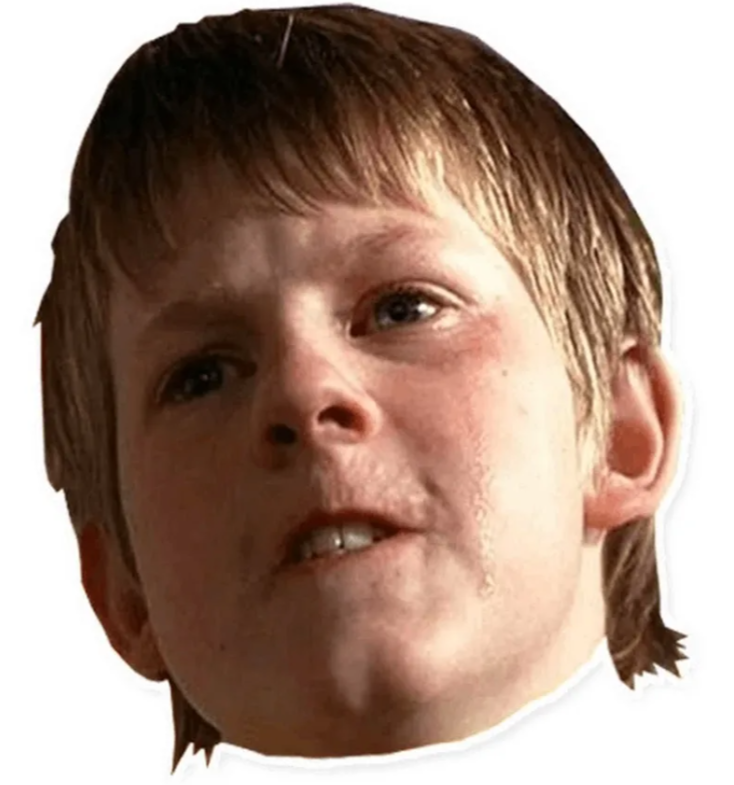
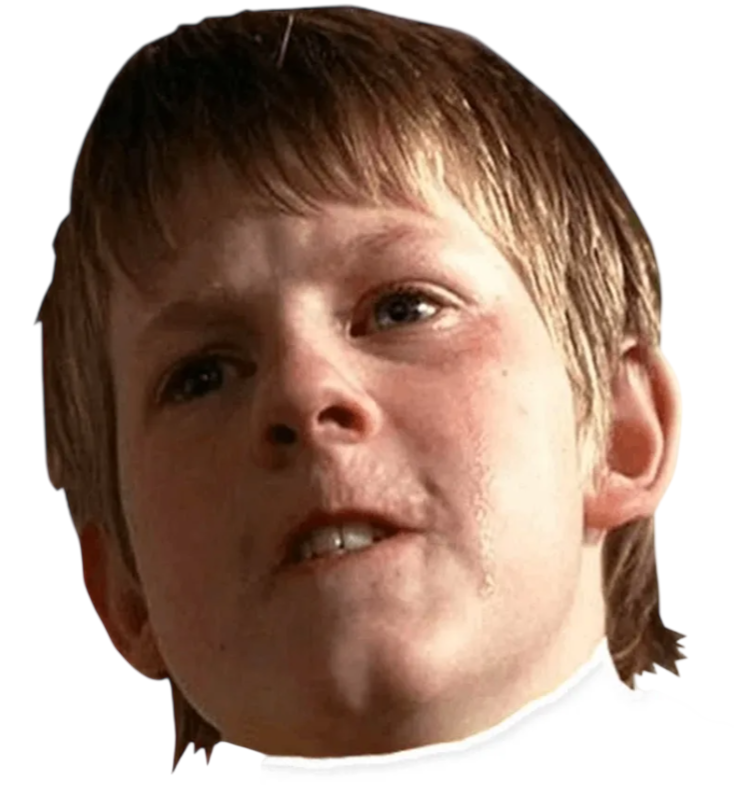
Multiple HTML and CSS adjustments

diff --git a/CSS/Feedback.css b/CSS/Feedback.css
@@ -33,7 +33,7 @@ html {
   animation: fadeIn 0.8s ease-out forwards; /* 0.8 секунды, мягкое замедление */
 }
 
-/* Стилизация ползунка, чтобы он тоже был скруглённым и аккуратным */
+/* Стилизация ползунка, чтобы он был скруглённым */
 .scrollable-box::-webkit-scrollbar {
   width: 8px;
 }
@@ -77,8 +77,6 @@ html {
 }
 
 .container_feedback h1,
-.container_feedback h2,
-.container_feedback h3,
 .container_feedback .form-title {
   text-align: center;
 }
@@ -96,7 +94,6 @@ input[type="date"] {
   border-radius: 5px;
   box-sizing: border-box;
 }
-
 
 input[type="submit"] {
   width: 10vw;

diff --git a/CSS/Register.css b/CSS/Register.css
@@ -18,7 +18,7 @@ html {
 
 .container_register {
   width: 22vw;
-  height: 67vh;
+  height: 69vh;
   margin-bottom: 6vh;
   background-color: rgba(255, 255, 255, 0.85);
   backdrop-filter: blur(10px);
@@ -102,8 +102,15 @@ input[type="submit"] {
   text-align: center;
 }
 
+
 input[type="submit"]:hover {
   background-color: rgb(255, 136, 0);
+}
+
+.container_register nav ul li a {
+  color: #333;
+  text-shadow: none !important;
+  box-shadow: none !important;
 }
 
 /* Описываем саму анимацию */

diff --git a/HTML/Clicker.php b/HTML/Clicker.php
@@ -89,60 +89,69 @@
 
 
     <div class="body">
-        <div class="container">
-            <form action="" method="POST" class="game" onsubmit="updateHiddenField()">
-                <!-- Заголовок со счетом. Внутри span с id="score", который будет менять JavaScript -->
-                <h1>Счет: <span id="score">0</span></h1>
-                <!-- Кнопка клика -->
-                <div class="button" id="button"></div>
-                <!-- Счетчик прибавки при ручном нажатии -->
-                <h1>Один клик: <span id="score1">1</span></h1>
-                <!-- Счетчик авто-прибавки  -->
-                <h1>Авто-клик: <span id="score2">1</span></h1>
-                <h1><span id="attention"></span></h1>
-                <!-- Невидимое поле - Сюда записывается счет -->
-                <input type="hidden" name="score" id="hidden_score" value="0">               
-                <!-- Кнопка записи данных в таблицу базы данных -->
-                <input type="submit" name="button_score" value="Сохранить результат">
-            </form>
+        <?php if (isset($_SESSION['login'])): ?>
+            <!-- Этот блок виден ТОЛЬКО авторизованным пользователям -->
+            <div class="container">
+                <form action="" method="POST" class="game" onsubmit="updateHiddenField()">
+                    <!-- Заголовок со счетом. Внутри span с id="score", который будет менять JavaScript -->
+                    <h1>Счет: <span id="score">0</span></h1>
+                    <!-- Кнопка клика -->
+                    <div class="button" id="button"></div>
+                    <!-- Счетчик прибавки при ручном нажатии -->
+                    <h1>Один клик: <span id="score1">1</span></h1>
+                    <!-- Счетчик авто-прибавки  -->
+                    <h1>Авто-клик: <span id="score2">1</span></h1>
+                    <h1><span id="attention"></span></h1>
+                    <!-- Невидимое поле - Сюда записывается счет -->
+                    <input type="hidden" name="score" id="hidden_score" value="0">
+                    <!-- Кнопка записи данных в таблицу базы данных -->
+                    <input type="submit" name="button_score" value="Сохранить результат">
+                </form>
 
 
-            <!-- Кнопки улучшений (первая группа)-->
-            <div class="buttons">
-                <h1>Прибавка +1 (Цена 20)</h1>
-                <div class="button1" id="button1"></div>
-                <h1>Прибавка +2 (Цена 40)</h1>
-                <div class="button2" id="button2"></div>
-                <h1>Прибавка +4 (Цена 80)</h1>
-                <div class="button3" id="button3"></div>
-                <h1>Прибавка +8 (Цена 160)</h1>
-                <div class="button4" id="button4"></div>
+                <!-- Кнопки улучшений (первая группа)-->
+                <div class="buttons">
+                    <h1>Прибавка +1 (Цена 20)</h1>
+                    <div class="button1" id="button1"></div>
+                    <h1>Прибавка +2 (Цена 40)</h1>
+                    <div class="button2" id="button2"></div>
+                    <h1>Прибавка +4 (Цена 80)</h1>
+                    <div class="button3" id="button3"></div>
+                    <h1>Прибавка +8 (Цена 160)</h1>
+                    <div class="button4" id="button4"></div>
+                </div>
+
+                <!-- Кнопки улучшений (вторая группа)-->
+                <div class="buttons1">
+                    <h1>Прибавка +16 (Цена 320)</h1>
+                    <div class="button5" id="button5"></div>
+                    <h1>Прибавка +32 (Цена 640)</h1>
+                    <div class="button6" id="button6"></div>
+                    <h1>Прибавка +64 (Цена 1280)</h1>
+                    <div class="button7" id="button7"></div>
+                    <h1>Прибавка +128 (Цена 2560)</h1>
+                    <div class="button8" id="button8"></div>
+                </div>
+
+                <!-- Кнопки улучшений (авто клики)-->
+                <div class="buttons2">
+                    <h1>Авто-прибавка +1 (Цена 200)</h1>
+                    <div class="button9" id="button9"></div>
+                    <h1>Авто-прибавка +2 (Цена 400)</h1>
+                    <div class="button10" id="button10"></div>
+                    <h1>Авто-прибавка +4 (Цена 800)</h1>
+                    <div class="button11" id="button11"></div>
+                    <h1>Авто-прибавка +8 (Цена 1600)</h1>
+                    <div class="button12" id="button12"></div>
+                </div>
             </div>
-
-            <!-- Кнопки улучшений (вторая группа)-->
-            <div class="buttons1">
-                <h1>Прибавка +16 (Цена 320)</h1>
-                <div class="button5" id="button5"></div>
-                <h1>Прибавка +32 (Цена 640)</h1>
-                <div class="button6" id="button6"></div>
-                <h1>Прибавка +64 (Цена 1280)</h1>
-                <div class="button7" id="button7"></div>
-                <h1>Прибавка +128 (Цена 2560)</h1>
-                <div class="button8" id="button8"></div>
+        <?php else: ?>
+            <div class="container" style="display: flex; justify-content: center; align-items: center; color: #333; padding: 20px;">
+                <p>Чтобы поиграть в кликер —
+                    <a href="Auth.php" style="color: #007bff; text-decoration: underline;">авторизуйтесь</a>.
+                </p>
             </div>
-
-            <!-- Кнопки улучшений (авто клики)-->
-            <div class="buttons2">
-                <h1>Авто-прибавка +1 (Цена 200)</h1>
-                <div class="button9" id="button9"></div>
-                <h1>Авто-прибавка +2 (Цена 400)</h1>
-                <div class="button10" id="button10"></div>
-                <h1>Авто-прибавка +4 (Цена 800)</h1>
-                <div class="button11" id="button11"></div>
-                <h1>Авто-прибавка +8 (Цена 1600)</h1>
-                <div class="button12" id="button12"></div>
-            </div>
-        </div>
+        <?php endif; ?>
 
         <div class="scrollable-box">
             <?php score_publish(); ?>

diff --git a/HTML/Register.php b/HTML/Register.php
@@ -59,20 +59,25 @@
         <div class="container_register">
             <h1 class="auth-title" style="color: grey">Регистрация</h1>
             <form method="POST" action="" enctype="multipart/form-data">
-                Логин: <input type="text" name="login" minlength="8" placeholder="Минимум 8 символов" required><br>
+                Логин: <input type="text" name="login" minlength="8" maxlength="25" placeholder="От 8 до 25 символов" required><br>
                 Пароль: <input type="password" name="password" minlength="8" placeholder="Минимум 8 символов"
                     required><br>
                 Повторите пароль: <input type="password" name="password1" placeholder="Должен совпадать с паролем"
                     required><br>
-                Email: <input type="email" name="email" required><br>
+                Email: <input type="email" name="email" placeholder="Только российская почта" required><br>
                 Аватар:
                 <label class="file-upload-label">
-                    <span id="file-name-text">Выберите файл...</span>
+                    <span id="file-name-text">Выберите файл (необязательно)</span>
                     <input type="file" name="avatar" id="avatar-input" accept="image/*"
                         onchange="document.getElementById('file-name-text').innerText = this.files[0] ? this.files[0].name : 'Выберите файл...'">
                 </label>
                 Согласие на обработку персональных данных: <input type="checkbox" name="personal" required><br>
-                <input type="submit" name="button_reg" value="Регистрация">
+                <nav>
+                    <ul>
+                        <li><a href="Auth.php">Есть аккаунт</a></li>
+                    </ul>
+                </nav>
+                <input type="submit" name="button_reg" value="Регистрация">                
             </form>
         </div>
     </div>

diff --git a/HTML/Header.php b/HTML/Header.php
@@ -23,13 +23,8 @@
                     <li><a href="Playthroughs.php">Прохождения</a></li>
                     <li><a href="Gallery.php">Галерея</a></li>
                     <li><a href="Worlds.php">Скачать миры</a></li>
-                    <li><a href="Feedback.php">Отзывы</a></li>
-
-                    <!-- Отдельный пунк меню, который показывается, когда пользователь авторизовался -->
-                    <?php if (isset($_SESSION['login'])): ?>
-                        <!-- Видно только авторизованным -->
-                        <li><a href="Clicker.php">Мини-игра</a></li>
-                    <?php endif; ?>
+                    <li><a href="Feedback.php">Отзывы</a></li>                   
+                    <li><a href="Clicker.php">Мини-игра</a></li>
 
                     <!-- Отдельный пунк меню, который показывается, когда пользователь авторизовался -->
                     <?php if (isset($_SESSION['login'])): ?>

diff --git a/HTML/Feedback.php b/HTML/Feedback.php
@@ -141,7 +141,7 @@
             <!-- Этот блок виден ТОЛЬКО авторизованным пользователям -->
             <div class="container_feedback">
                 <h1 class="auth-title" style="color: grey">Оставить отзыв</h1>
-                <form action="" method="POST" class="feedback">                    
+                <form action="" method="POST" class="feedback">
                     Оценка видосам: <input type="number" min="0" max="10" name="rating" placeholder="От 1 до 10"
                         required><br>
                     Комментарий: <input type="text" name="text" minlength="10" maxlength="3000"
